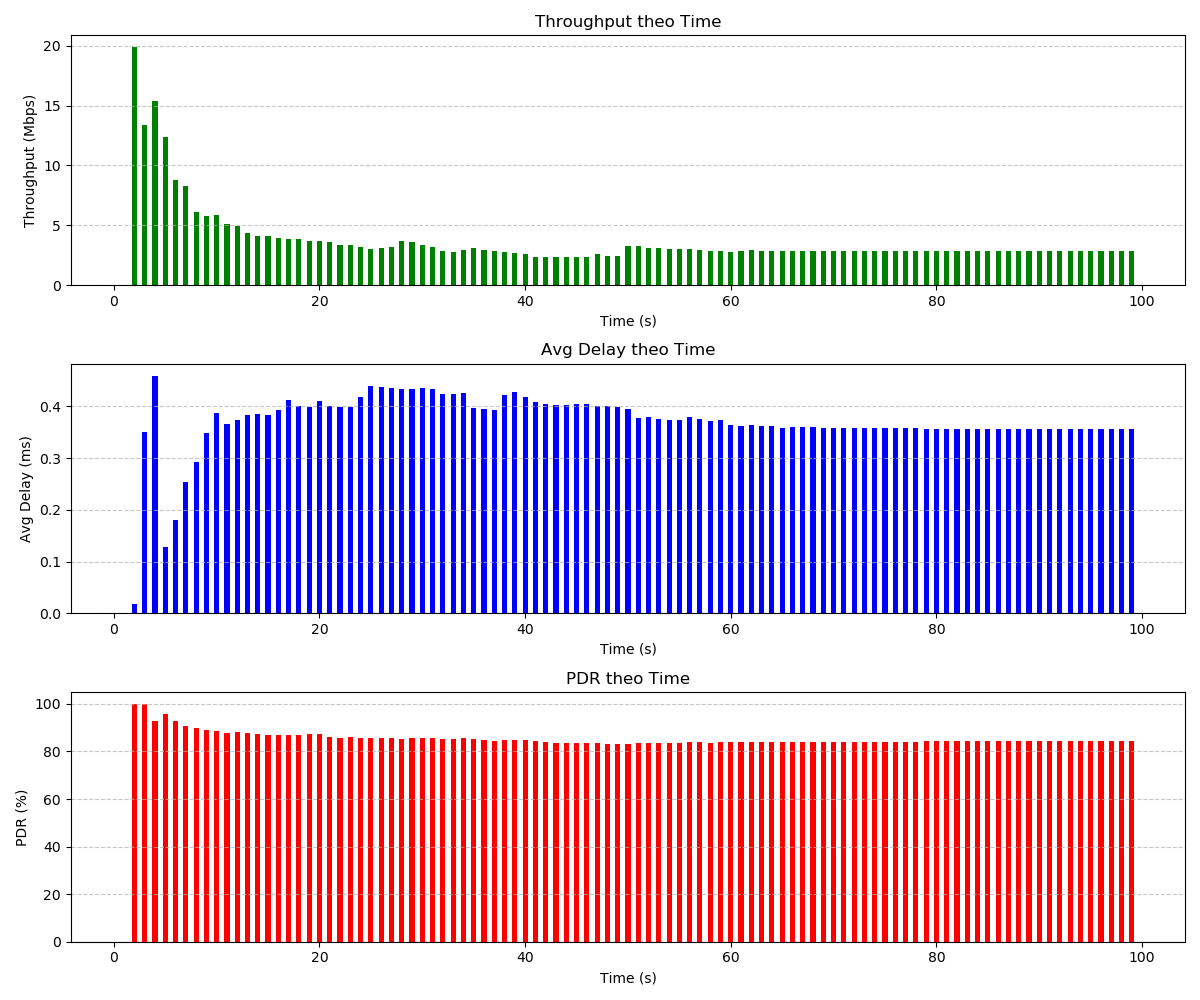
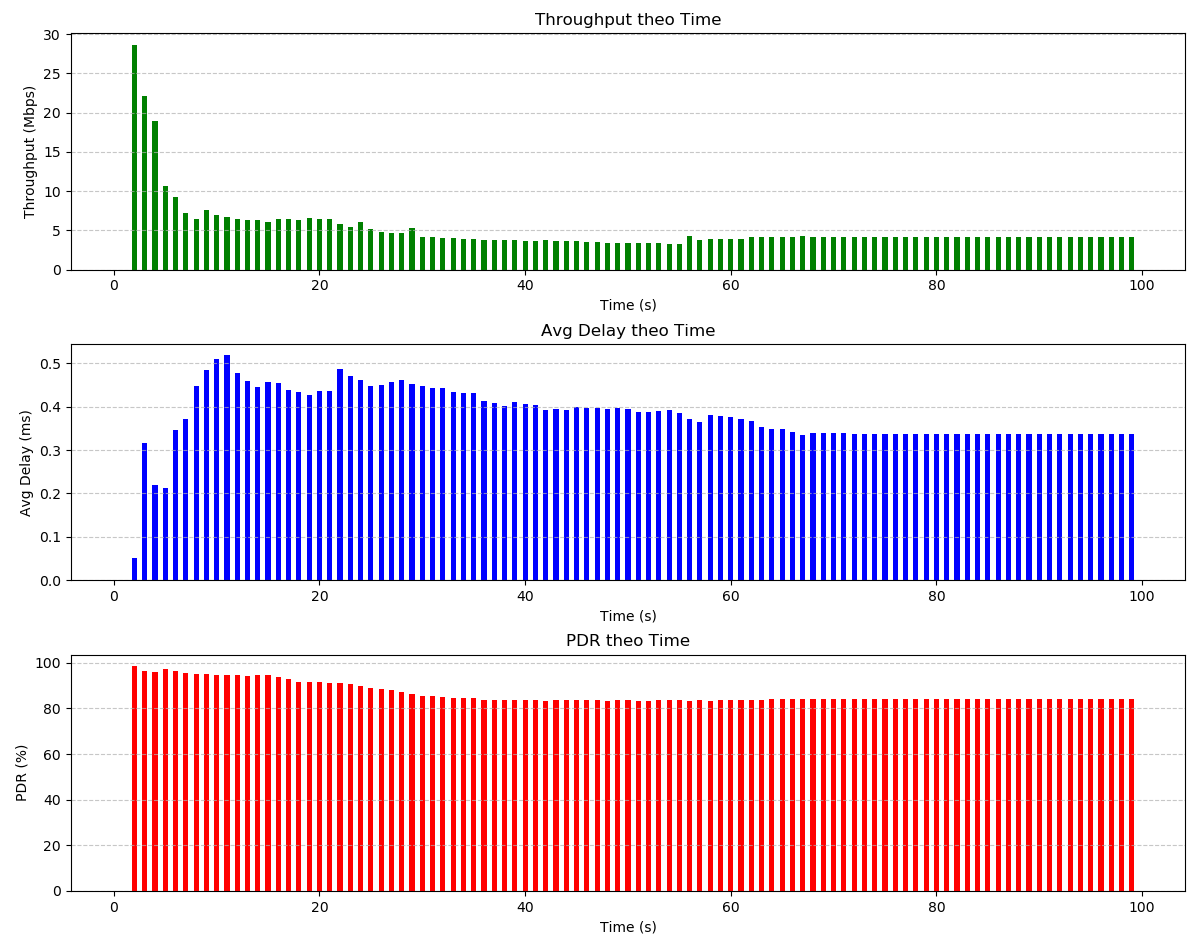
Update source code for AODV simualtion and update result

diff --git a/src-code/aodv.cc b/src-code/aodv.cc
@@ -135,7 +135,7 @@ int main(int argc, char* argv[])
     // Tạo các node
     NS_LOG_INFO("Create nodes.");
     NodeContainer c;
-    c.Create(50); // Tạo 50 nút
+    c.Create(40); // Tạo 40 nút
 
     // Cấu hình Wifi
     WifiHelper wifi;
@@ -188,35 +188,34 @@ int main(int argc, char* argv[])
     Address sinkAddress(InetSocketAddress(ifcont.GetAddress(9), port));
     
     Ptr<MyApp> app = CreateObject<MyApp>();
-    app->Setup(ns3UdpSocket, sinkAddress, 1040, 100000, DataRate("250Kbps"));
+    app->Setup(ns3UdpSocket, sinkAddress, 1040, 50000, DataRate("150Kbps")); // Giảm từ 100000 packets xuống 50000
     c.Get(0)->AddApplication(app);
     
     app->SetStartTime(Seconds(1.));
     app->SetStopTime(Seconds(60.));
     
-    std::cout << "Direct flow setup: Node 0 -> Node 9" << std::endl;
     
-    // Tạo flows giữa các node gần nhau
+    // Tạo thêm các kết nối giữa các node để có nhiều flows
     UniformRandomVariable random;
     random.SetStream(10);
     
-    // Tạo thêm các kết nối giữa các node để có nhiều flows
-    for (uint32_t i = 1; i < 20; i++) { // Giới hạn ở 20 node gửi để tránh quá tải
+    // Tạo thêm các kết nối giữa các node để có nhiều flows - giảm số lượng flows
+    for (uint32_t i = 1; i < 10; i++) { // Giảm từ 20 xuống 10 flows để tránh quá tải
         // Chọn ngẫu nhiên một node đích khác với node hiện tại
         uint32_t dest;
         do {
-            dest = random.GetInteger(0, 49);
+            dest = random.GetInteger(0, 39); // 40 node
         } while (dest == i);
         
         Ptr<Socket> socket = Socket::CreateSocket(c.Get(i), UdpSocketFactory::GetTypeId());
         Address destAddress(InetSocketAddress(ifcont.GetAddress(dest), port));
         
         Ptr<MyApp> newApp = CreateObject<MyApp>();
-        newApp->Setup(socket, destAddress, 512, 10000, DataRate("250Kbps"));
+        newApp->Setup(socket, destAddress, 512, 3000, DataRate("100Kbps")); // Giảm thêm packet count
         c.Get(i)->AddApplication(newApp);
         
         // Phân bố thời gian bắt đầu để tránh quá tải
-        newApp->SetStartTime(Seconds(5.0 + 0.1 * i));
+        newApp->SetStartTime(Seconds(10.0 + 1.0 * i)); // Tăng interval và delay start time hơn
         newApp->SetStopTime(Seconds(60.0));
         
         std::cout << "Flow setup: Node " << i << " -> Node " << dest << std::endl;
@@ -233,7 +232,7 @@ int main(int argc, char* argv[])
     randomY.SetStream(2);
 
     // Tạo vị trí ban đầu ngẫu nhiên cho các node
-    for (uint32_t i = 0; i < 50; i++) {
+    for (uint32_t i = 0; i < 40; i++) {
         positionAlloc->Add(Vector(randomX.GetValue(0, 500), randomY.GetValue(0, 500), 0));//phạm vi mô phỏng là 500x500
     }
 
@@ -246,7 +245,7 @@ int main(int argc, char* argv[])
     UniformRandomVariable randomAngle; // Góc ngẫu nhiên
     randomAngle.SetStream(3);
 
-    for (uint32_t i = 0; i < 50; i++) {
+    for (uint32_t i = 0; i < 40; i++) {
         Ptr<ConstantVelocityMobilityModel> moverModel = c.Get(i)->GetObject<ConstantVelocityMobilityModel>();
         
         // node 0 đứng yên
